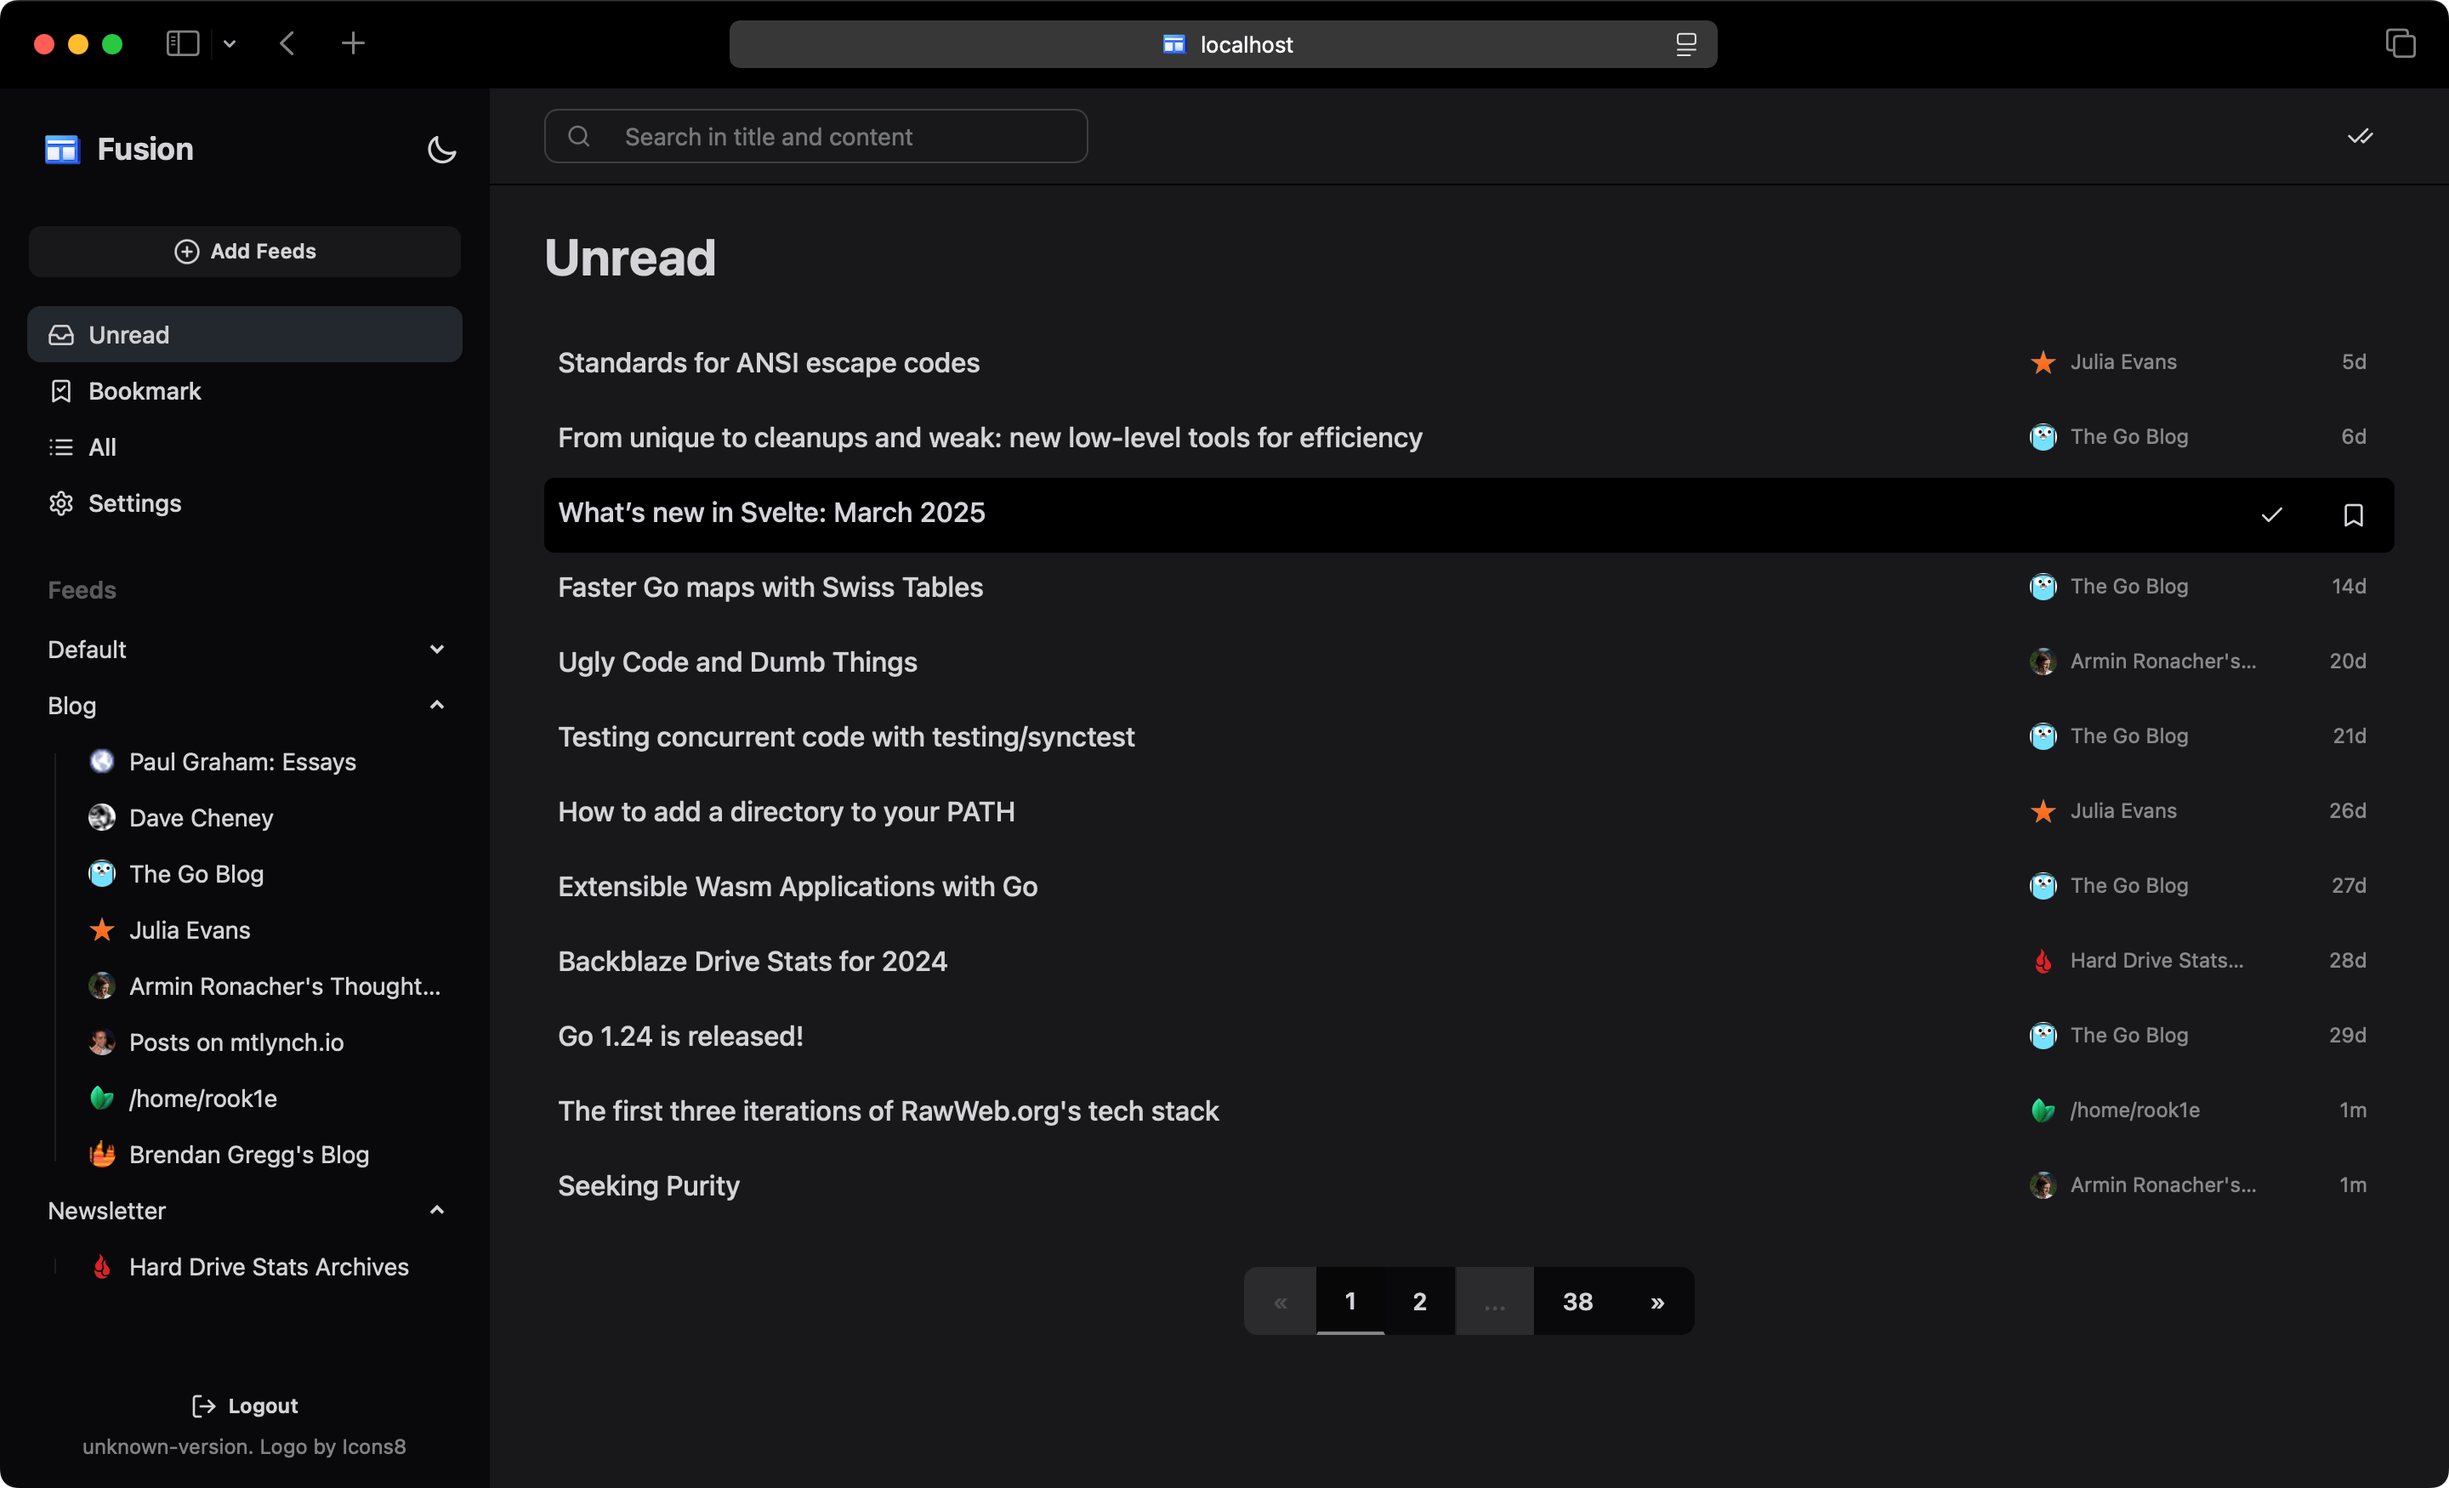
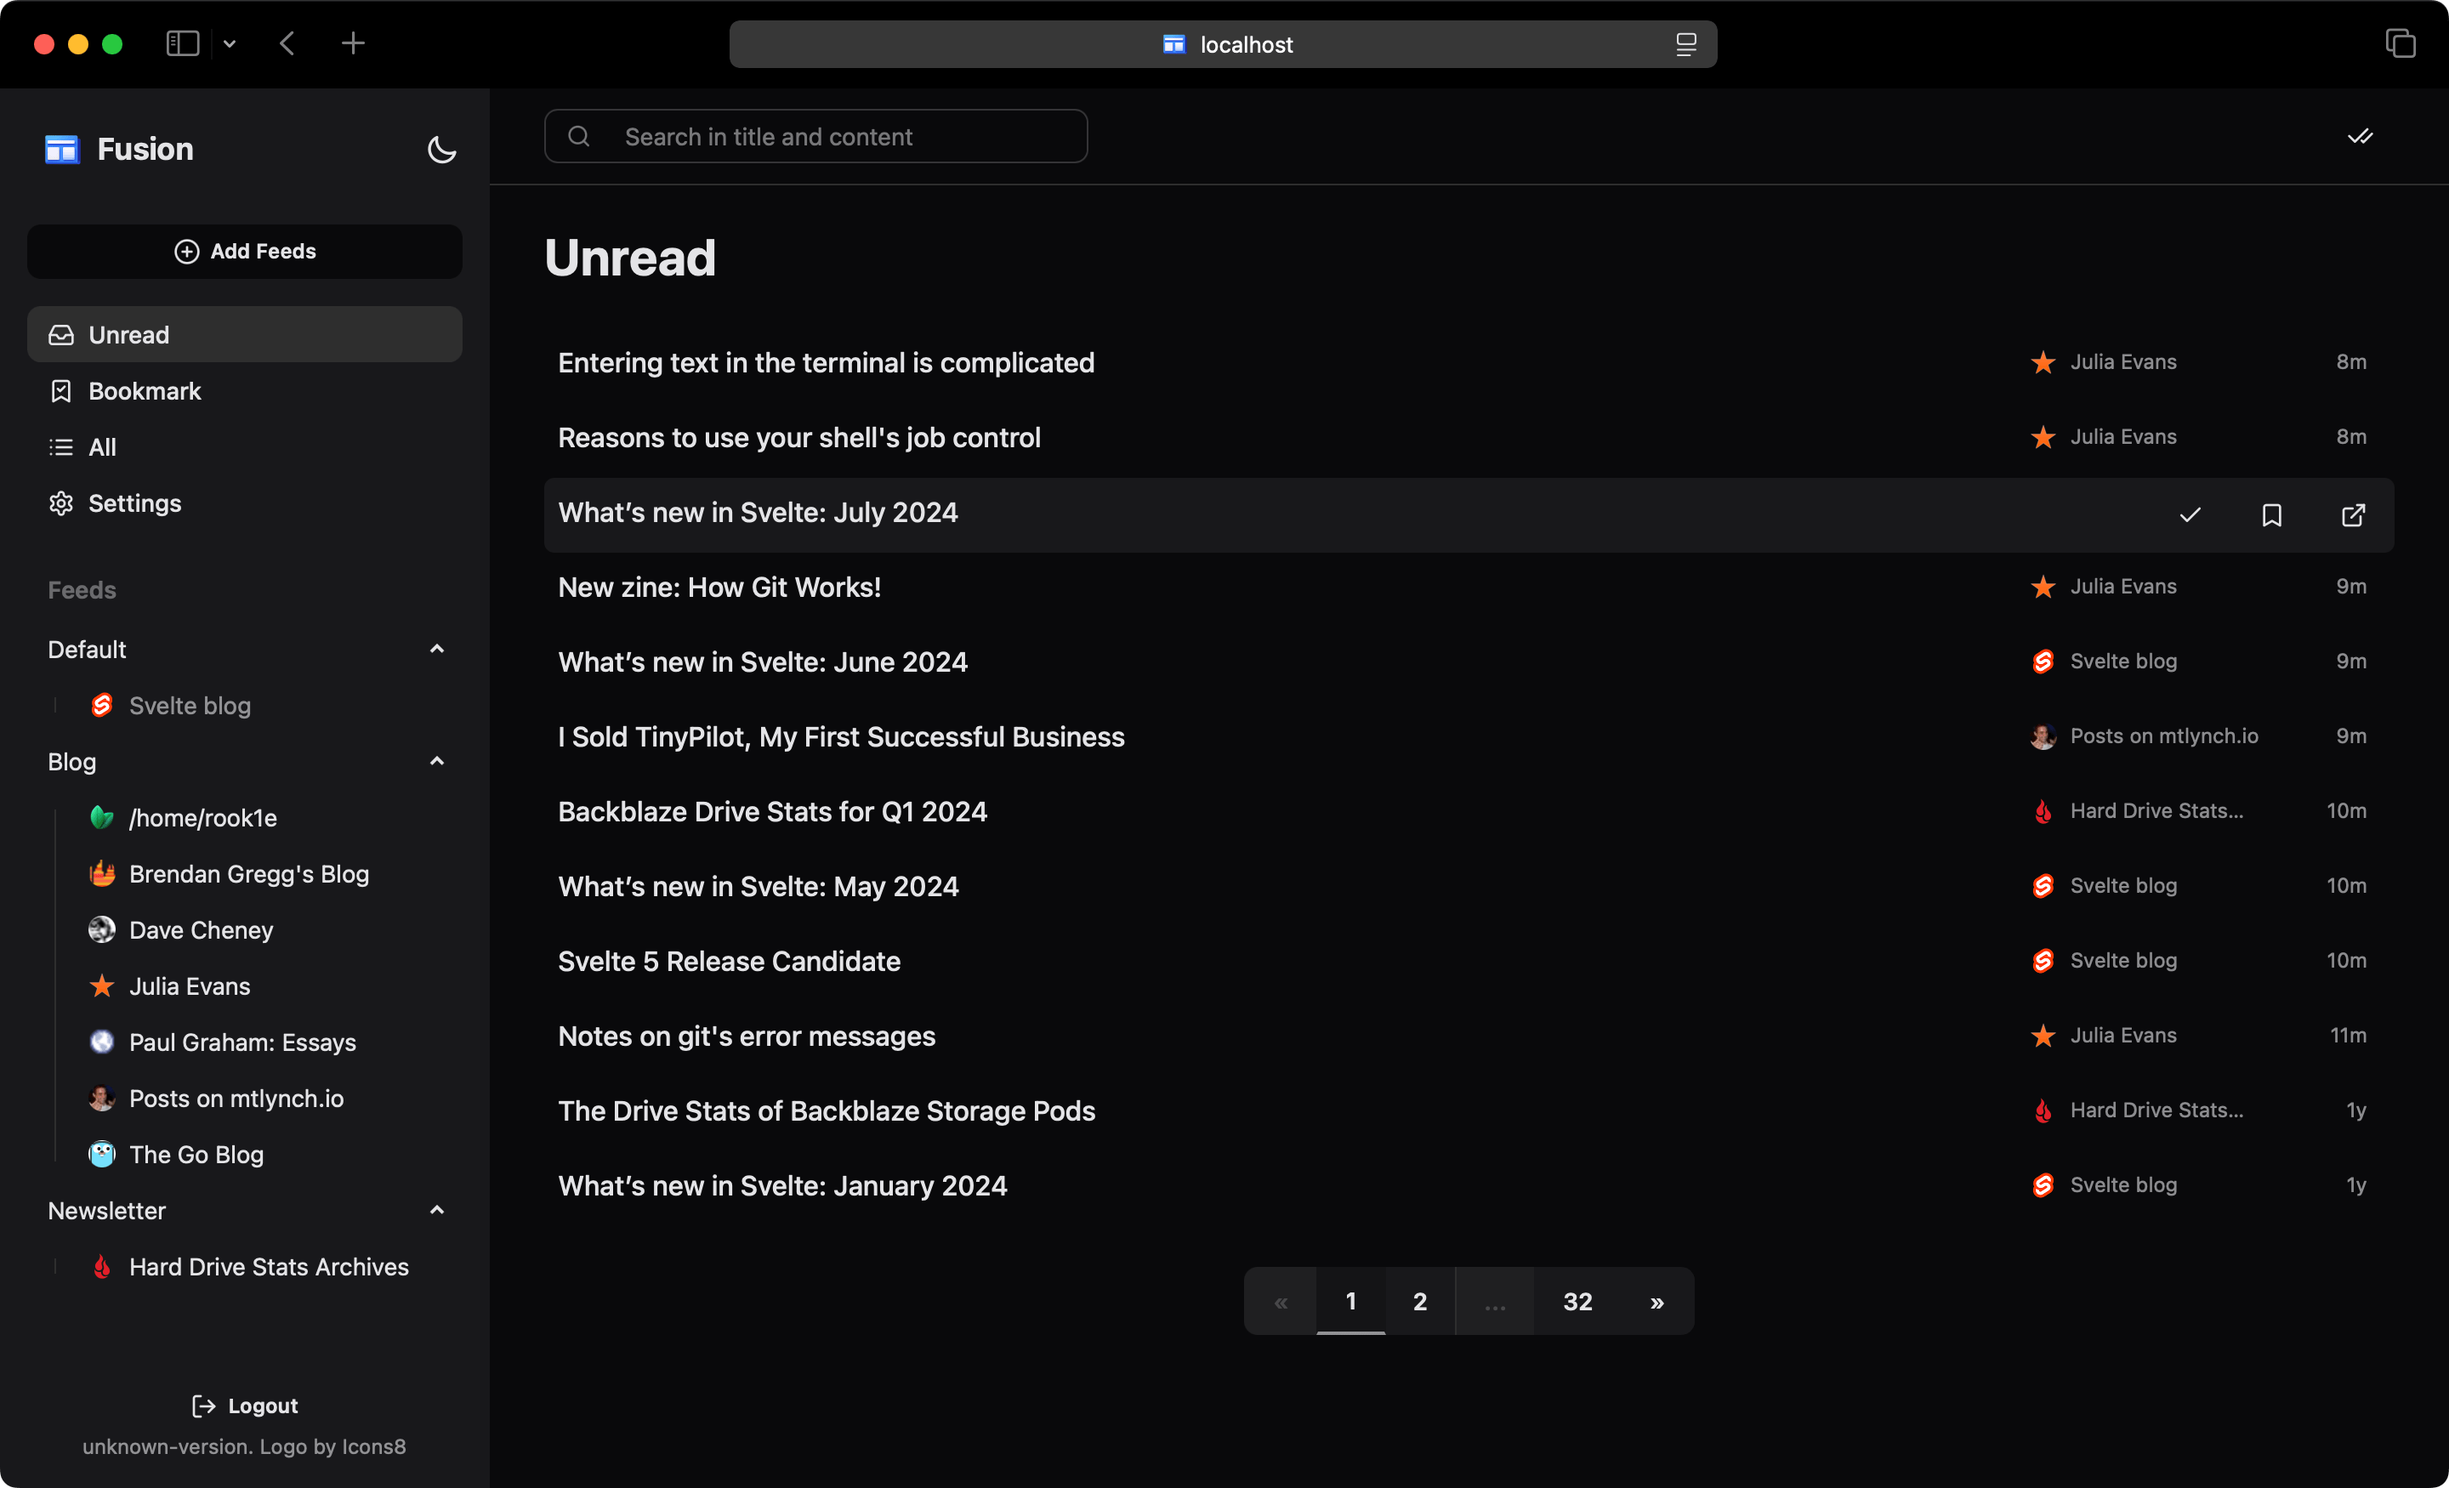
refactor: update color scheme (#91)
* refactor: update color variables and improve component styles for better UI consistency

* doc: update screenshots

diff --git a/frontend/src/app.css b/frontend/src/app.css
@@ -10,24 +10,24 @@
 	color-scheme: 'light';
 	--color-base-100: oklch(100% 0 0);
 	--color-base-200: oklch(98% 0 0);
-	--color-base-300: oklch(95% 0 0);
-	--color-base-content: oklch(21% 0.006 285.885);
+	--color-base-300: oklch(96% 0.001 286.375);
+	--color-base-content: oklch(0% 0 0);
 	--color-primary: oklch(42% 0.199 265.638);
-	--color-primary-content: oklch(97% 0.014 254.604);
-	--color-secondary: oklch(51% 0.262 276.966);
-	--color-secondary-content: oklch(94% 0.028 342.258);
-	--color-accent: oklch(64% 0.222 41.116);
-	--color-accent-content: oklch(98% 0.016 73.684);
-	--color-neutral: oklch(27% 0.006 286.033);
-	--color-neutral-content: oklch(96% 0.001 286.375);
-	--color-info: oklch(58% 0.158 241.966);
-	--color-info-content: oklch(97% 0.013 236.62);
-	--color-success: oklch(52% 0.154 150.069);
-	--color-success-content: oklch(98% 0.018 155.826);
+	--color-primary-content: oklch(100% 0 0);
+	--color-secondary: oklch(42% 0.199 265.638);
+	--color-secondary-content: oklch(100% 0 0);
+	--color-accent: oklch(42% 0.199 265.638);
+	--color-accent-content: oklch(100% 0 0);
+	--color-neutral: oklch(92% 0.004 286.32);
+	--color-neutral-content: oklch(0% 0 0);
+	--color-info: oklch(68% 0.169 237.323);
+	--color-info-content: oklch(100% 0 0);
+	--color-success: oklch(62% 0.194 149.214);
+	--color-success-content: oklch(100% 0 0);
 	--color-warning: oklch(76% 0.188 70.08);
-	--color-warning-content: oklch(98% 0.022 95.277);
-	--color-error: oklch(50% 0.213 27.518);
-	--color-error-content: oklch(97% 0.013 17.38);
+	--color-warning-content: oklch(100% 0 0);
+	--color-error: oklch(57% 0.245 27.325);
+	--color-error-content: oklch(100% 0 0);
 	--radius-selector: 0.25rem;
 	--radius-field: 0.5rem;
 	--radius-box: 0.5rem;
@@ -43,26 +43,26 @@
 	default: false;
 	prefersdark: false;
 	color-scheme: 'dark';
-	--color-base-100: oklch(21% 0.006 285.885);
-	--color-base-200: oklch(14% 0.005 285.823);
-	--color-base-300: oklch(0% 0 0);
-	--color-base-content: oklch(87% 0.006 286.286);
+	--color-base-100: oklch(14% 0.005 285.823);
+	--color-base-200: oklch(21% 0.006 285.885);
+	--color-base-300: oklch(27% 0.006 286.033);
+	--color-base-content: oklch(92% 0.004 286.32);
 	--color-primary: oklch(37% 0.146 265.522);
-	--color-primary-content: oklch(97% 0.014 254.604);
-	--color-secondary: oklch(45% 0.085 224.283);
-	--color-secondary-content: oklch(98% 0.019 200.873);
-	--color-accent: oklch(67.271% 0.167 35.791);
-	--color-accent-content: oklch(13.454% 0.033 35.791);
-	--color-neutral: oklch(27.441% 0.013 253.041);
-	--color-neutral-content: oklch(85.488% 0.002 253.041);
-	--color-info: oklch(50% 0.134 242.749);
-	--color-info-content: oklch(97% 0.013 236.62);
-	--color-success: oklch(44% 0.119 151.328);
-	--color-success-content: oklch(98% 0.018 155.826);
-	--color-warning: oklch(68% 0.162 75.834);
-	--color-warning-content: oklch(98% 0.026 102.212);
-	--color-error: oklch(50% 0.213 27.518);
-	--color-error-content: oklch(97% 0.013 17.38);
+	--color-primary-content: oklch(92% 0.004 286.32);
+	--color-secondary: oklch(37% 0.146 265.522);
+	--color-secondary-content: oklch(92% 0.004 286.32);
+	--color-accent: oklch(37% 0.146 265.522);
+	--color-accent-content: oklch(92% 0.004 286.32);
+	--color-neutral: oklch(30% 0 0);
+	--color-neutral-content: oklch(92% 0.004 286.32);
+	--color-info: oklch(58% 0.158 241.966);
+	--color-info-content: oklch(100% 0 0);
+	--color-success: oklch(52% 0.154 150.069);
+	--color-success-content: oklch(100% 0 0);
+	--color-warning: oklch(79% 0.184 86.047);
+	--color-warning-content: oklch(100% 0 0);
+	--color-error: oklch(57% 0.245 27.325);
+	--color-error-content: oklch(100% 0 0);
 	--radius-selector: 0.25rem;
 	--radius-field: 0.5rem;
 	--radius-box: 0.5rem;
@@ -77,6 +77,20 @@ html {
 	@apply font-sans;
 }
 
-body {
-	@apply bg-base-200;
+@utility modal {
+	.modal-box {
+		@apply border-neutral border;
+	}
+
+	&.modal-open,
+	&[open],
+	&:target {
+		background-color: oklch(0% 0 0 / 0.8);
+	}
+}
+
+@utility btn-ghost {
+	&:hover {
+		@apply bg-neutral;
+	}
 }

diff --git a/frontend/src/lib/components/Sidebar.svelte b/frontend/src/lib/components/Sidebar.svelte
@@ -70,7 +70,7 @@
 			<a
 				href="https://github.com/0x2E/fusion"
 				target="_blank"
-				class="btn btn-ghost hover:bg-base-content/10 flex items-center justify-start gap-2"
+				class="btn btn-ghost flex items-center justify-start gap-2"
 			>
 				<img src="/icon-96.png" alt="icon" class="w-6" />
 				<span class="text-lg font-bold">Fusion</span>
@@ -84,7 +84,7 @@
 					onclick={() => {
 						toggleShow();
 					}}
-					class="btn btn-sm bg-base-100 hover:bg-base-content/10"
+					class="btn btn-sm btn-ghost bg-base-100"
 				>
 					<CirclePlus class="size-4" />
 					<span>Add Feeds</span>
@@ -111,10 +111,11 @@
 							<span class="line-clamp-1">{group.name}</span>
 						</summary>
 						<ul>
-							{#each feeds.filter((v) => v.group.id === group.id).sort((a, b) => a.name.localeCompare(b.name)) as feed}
-								{@const domain = new URL(feed.link).hostname}
+							{#each feeds
+								.filter((v) => v.group.id === group.id)
+								.sort((a, b) => a.name.localeCompare(b.name)) as feed}
 								{@const textColor = feed.suspended
-									? 'text-base-content/60'
+									? 'text-neutral-content/60'
 									: feed.failure
 										? 'text-error'
 										: ''}

diff --git a/frontend/src/lib/components/ItemList.svelte b/frontend/src/lib/components/ItemList.svelte
@@ -48,7 +48,7 @@
 			<li class="group rounded-md">
 				<a
 					href={'/items/' + item.id}
-					class="hover:bg-base-300 relative flex w-full flex-col items-center justify-between space-y-1 space-x-2 rounded-md px-2 py-2 transition-colors md:flex-row"
+					class="hover:bg-base-200 relative flex w-full flex-col items-center justify-between space-y-1 space-x-2 rounded-md px-2 py-2 transition-colors md:flex-row"
 				>
 					<div class="flex w-full md:w-[80%] md:shrink-0">
 						<h2

diff --git a/frontend/src/lib/components/PageNavHeader.svelte b/frontend/src/lib/components/PageNavHeader.svelte
@@ -12,7 +12,7 @@
 	let { title, children, showSearch }: Props = $props();
 </script>
 
-<header class="bg-base-100 border-base-300 sticky top-0 z-50 border-b py-2">
+<header class="bg-base-100 border-neutral sticky top-0 z-50 border-b py-2">
 	<div class="flex flex-col justify-between px-1 md:px-4 lg:flex-row lg:items-center lg:px-8">
 		<div class="flex items-center justify-between gap-4">
 			<label for="sidebar-toggle" class="btn btn-ghost btn-square lg:hidden">

diff --git a/frontend/src/routes/login/+page.svelte b/frontend/src/routes/login/+page.svelte
@@ -24,7 +24,7 @@
 <div class="flex h-[100vh] items-center justify-center">
 	<form
 		onsubmit={handleSubmit}
-		class="bg-base-100 border-base-content/10 container flex max-w-[400px] -translate-y-[10vh] flex-col rounded-xl border p-8"
+		class="border-base-content/10 container flex max-w-[400px] -translate-y-[10vh] flex-col rounded-xl border p-8 shadow"
 	>
 		<h1 class="mb-4 text-center text-2xl font-bold">Login</h1>
 		<fieldset class="fieldset">

diff --git a/frontend/src/routes/(authed)/+layout.svelte b/frontend/src/routes/(authed)/+layout.svelte
@@ -13,7 +13,7 @@
 <div class="drawer lg:drawer-open">
 	<input id="sidebar-toggle" type="checkbox" bind:checked={showSidebar} class="drawer-toggle" />
 	<div class="drawer-content bg-base-100 relative z-10 min-h-screen overflow-x-clip">
-		<div class="mx-auto h-full max-w-6xl pb-4">
+		<div class="mx-auto flex h-full max-w-6xl flex-col pb-4">
 			{@render children()}
 		</div>
 	</div>

diff --git a/frontend/src/routes/(authed)/settings/+page.svelte b/frontend/src/routes/(authed)/settings/+page.svelte
@@ -38,11 +38,7 @@
 				<ul class="menu rounded-box sticky top-10 w-full">
 					{#each links as link}
 						<li>
-							<a
-								href={link.hash}
-								class="font-medium"
-								class:menu-active={page.url.hash === link.hash}
-							>
+							<a href={link.hash} class={`${page.url.hash === link.hash ? 'font-semibold' : ''}`}>
 								{link.label}
 							</a>
 						</li>

diff --git a/frontend/src/routes/(authed)/items/[id]/+page.svelte b/frontend/src/routes/(authed)/items/[id]/+page.svelte
@@ -93,7 +93,7 @@
 	<ItemActionVisitLink {data} />
 </PageNavHeader>
 
-<div class="relative flex h-full w-full justify-around px-4 py-6">
+<div class="relative flex w-full grow justify-around px-4 py-6">
 	<ItemSwitcher itemID={data.id} action="previous" />
 	<article class="w-full max-w-prose">
 		<p class="text-base-content/60 flex flex-col text-sm md:flex-row">

diff --git a/frontend/src/lib/components/ThemeController.svelte b/frontend/src/lib/components/ThemeController.svelte
@@ -7,7 +7,7 @@
 	});
 </script>
 
-<label class="btn btn-ghost btn-square swap swap-rotate hover:bg-base-100">
+<label class="btn btn-ghost btn-square swap swap-rotate hover:bg-neutral">
 	<!-- this hidden checkbox controls the state -->
 	<input type="checkbox" class="theme-controller" value="dark" bind:checked={isDark} />
 
